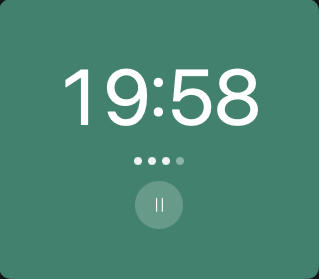
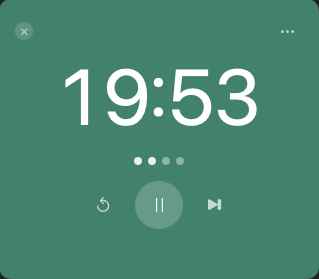
Update README demo images

diff --git a/README.md b/README.md
@@ -10,6 +10,14 @@ This is a clone of [Flow](https://flowapp.info), the Pomodoro app. I wanted some
   <img src="screenshots/session.png" width="280" alt="Work session">
   &nbsp;&nbsp;
   <img src="screenshots/break.png" width="280" alt="Break">
+  &nbsp;&nbsp;
+  <img src="screenshots/settings.png" alt="Break">
+
+  <img src="screenshots/session-menu.png" width="280" alt="Work session">
+  &nbsp;&nbsp;
+  <img src="screenshots/break-menu.png" width="280" alt="Break">
+  
+  
 </p>
 
 ## Features
